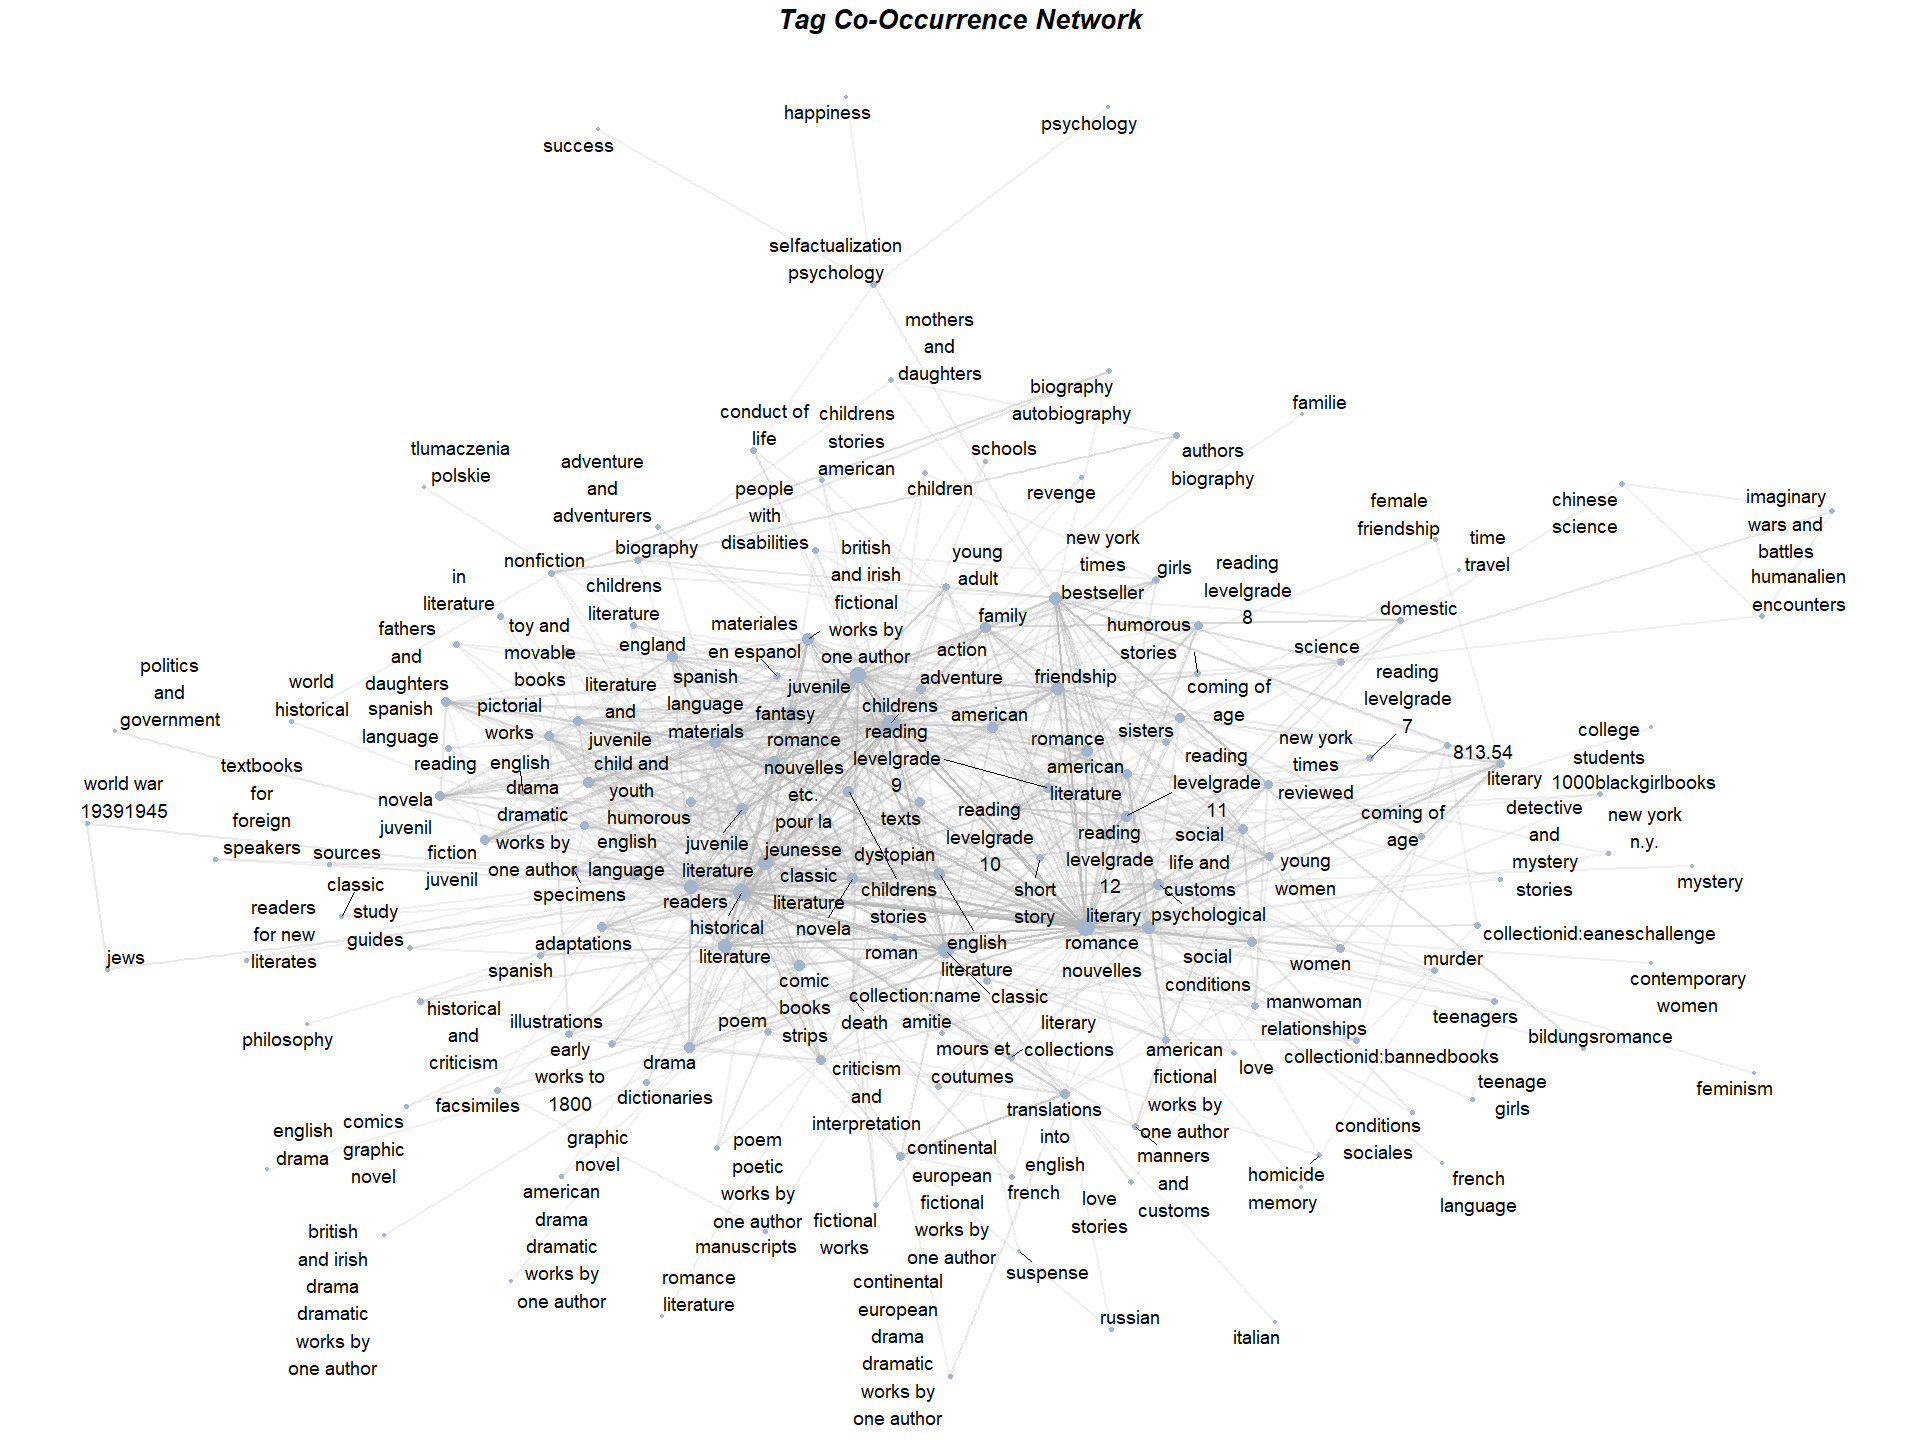
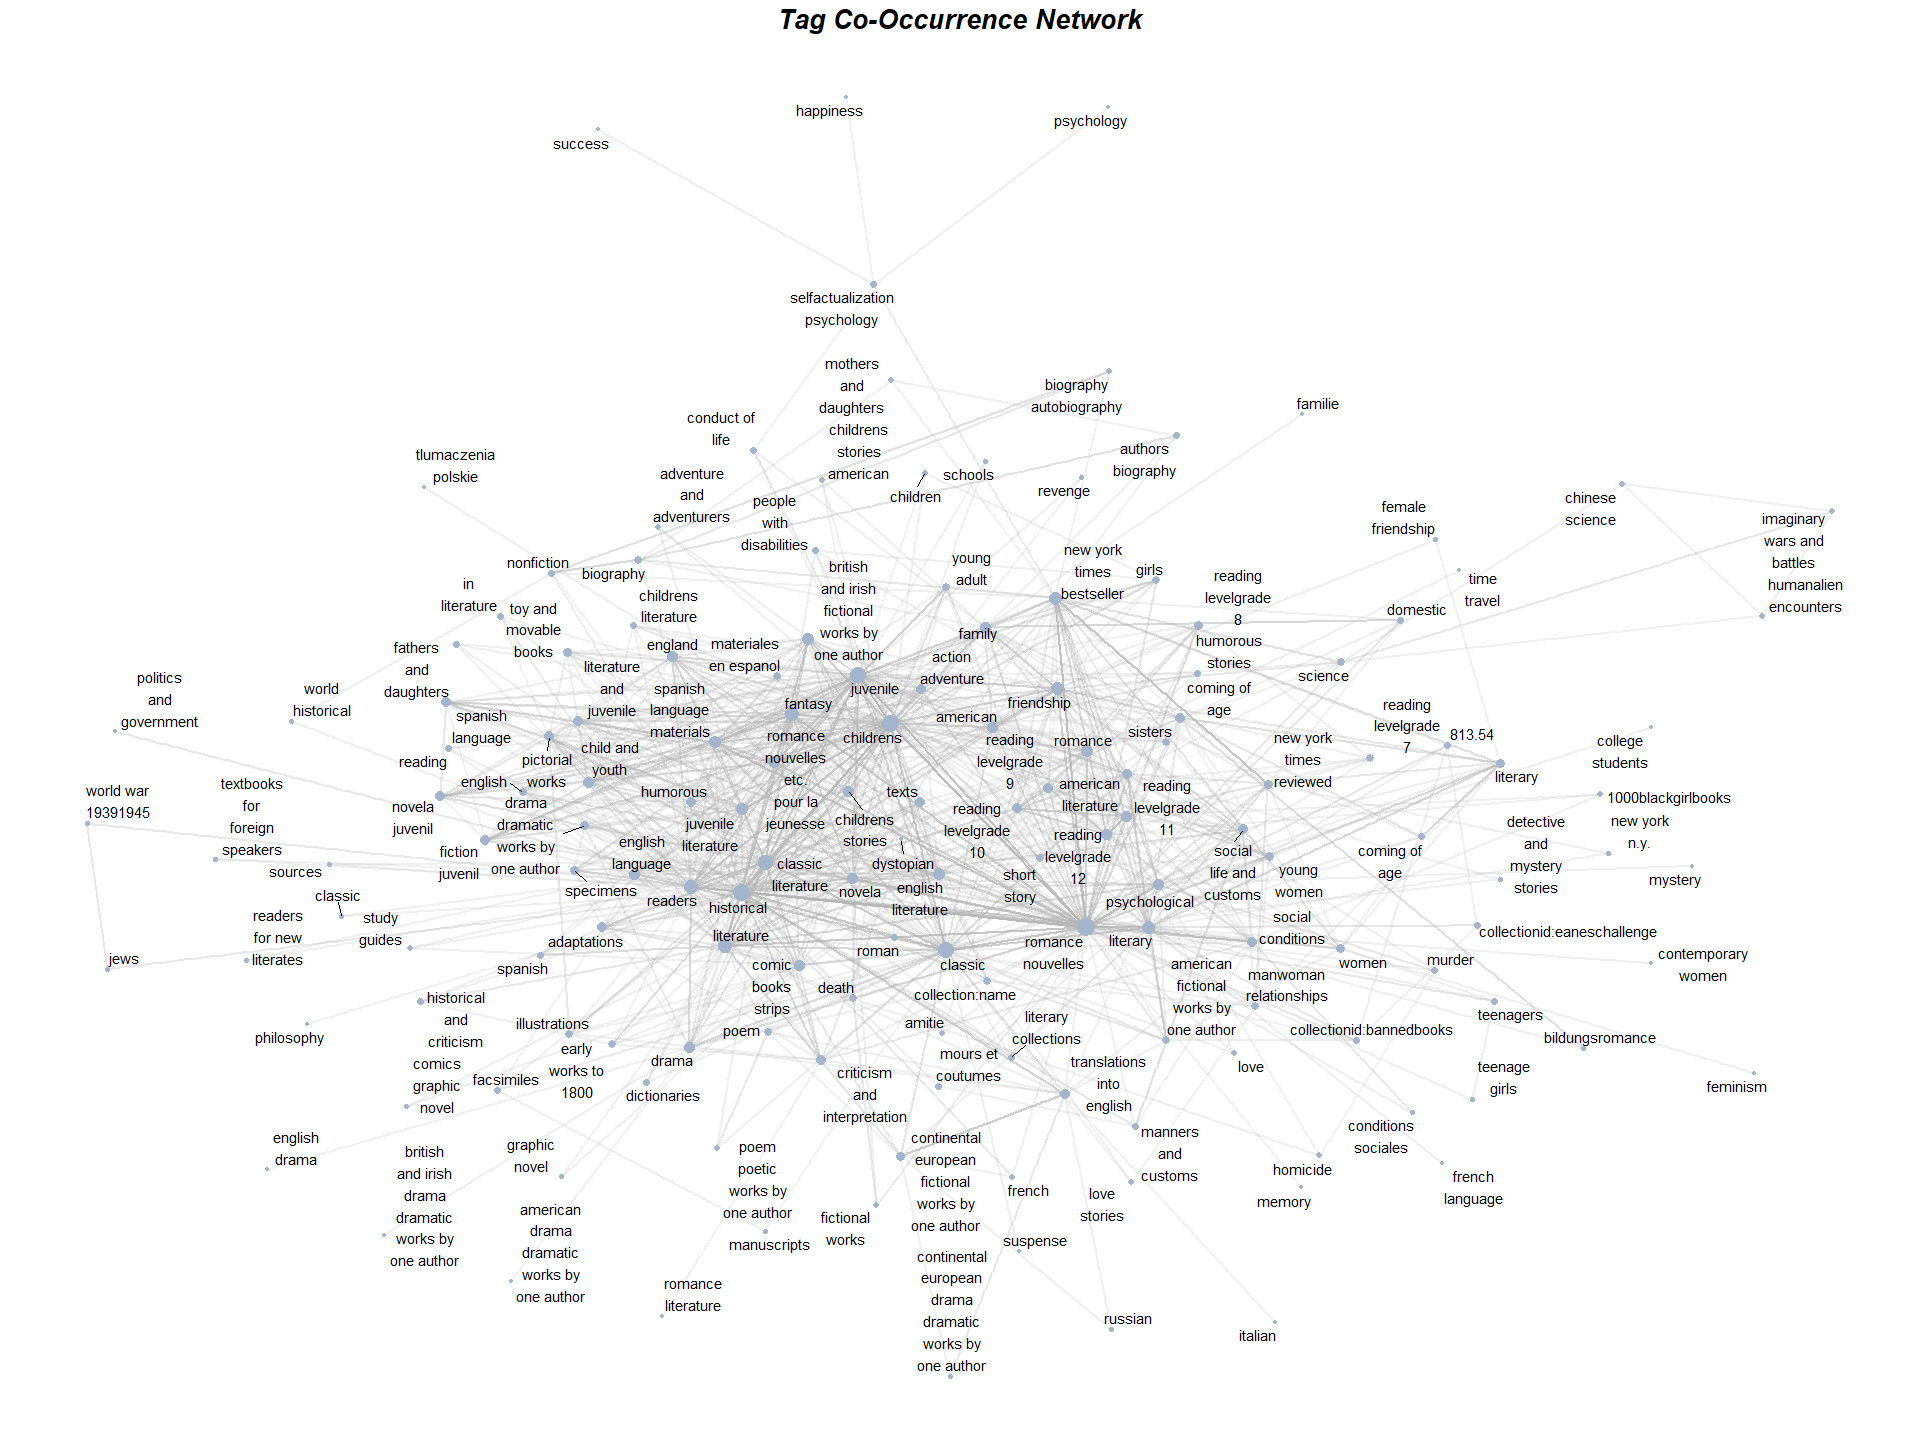
Figures

diff --git a/README.md b/README.md
@@ -2,9 +2,10 @@ Analysis of my Goodreads data
 ================
 
 Some exploratory analyses and data visualization of my Goodreads data,
-with additional information scraped from Wikidata and Open Library. A
-prediction model is built to predict my ratings of books based on their
-characteristics.
+with additional information scraped from Wikidata and Open Library. I
+build a co-occurrence network of the tags associated with books in Open
+Library, and a prediction model to predict my ratings of books based on
+their characteristics.
 
 ## Data preprocessing
 
@@ -280,7 +281,7 @@ ggplot(bookstrain %>% filter(!is.na(Date.Read)),
   annotate("rect", xmin = as.Date("2022-01-01"), xmax = as.Date("2022-09-22"), ymin = -Inf, ymax = Inf, fill = "lightsteelblue4", alpha = 0.15)
 ```
 
-<img src="myGoodReads_Analysis_files/figure-gfm/unnamed-chunk-14-1.png" style="display: block; margin: auto;" />
+<img src="README_files/figure-gfm/unnamed-chunk-14-1.png" style="display: block; margin: auto;" />
 
 I read more books in Autumn and Winter.
 
@@ -292,7 +293,7 @@ ggplot(bookstrain %>% filter(!is.na(Season.Read)), aes(x = Season.Read, fill = S
   theme(legend.title = element_blank())
 ```
 
-<img src="myGoodReads_Analysis_files/figure-gfm/unnamed-chunk-15-1.png" style="display: block; margin: auto;" />
+<img src="README_files/figure-gfm/unnamed-chunk-15-1.png" style="display: block; margin: auto;" />
 
 ### Book characteristics
 
@@ -321,7 +322,7 @@ ggplot(bookstrain %>%
   labs(title = "Books read by number of pages", x = "Pages", y = "Number of books")
 ```
 
-<img src="myGoodReads_Analysis_files/figure-gfm/unnamed-chunk-17-1.png" style="display: block; margin: auto;" />
+<img src="README_files/figure-gfm/unnamed-chunk-17-1.png" style="display: block; margin: auto;" />
 
 ``` r
 ggplot(bookstrain %>% filter(!is.na(Number.of.Pages) & Number.of.Pages < 2000),
@@ -332,7 +333,7 @@ ggplot(bookstrain %>% filter(!is.na(Number.of.Pages) & Number.of.Pages < 2000),
   labs(title = "Ratings by number of pages", x = "Number of pages", y = "Rating")
 ```
 
-<img src="myGoodReads_Analysis_files/figure-gfm/unnamed-chunk-18-1.png" style="display: block; margin: auto;" />
+<img src="README_files/figure-gfm/unnamed-chunk-18-1.png" style="display: block; margin: auto;" />
 
 I read many books published in the last 20 years, but also a good number
 of classics from the 19th and early 20th century. There is no clear
@@ -348,7 +349,7 @@ ggplot(bookstrain %>% filter(!is.na(Original.Publication.Year) & Original.Public
   labs(title = "Books read by publication year", x = "Year", y = "Number of books")
 ```
 
-<img src="myGoodReads_Analysis_files/figure-gfm/unnamed-chunk-20-1.png" style="display: block; margin: auto;" />
+<img src="README_files/figure-gfm/unnamed-chunk-20-1.png" style="display: block; margin: auto;" />
 
 ``` r
 ggplot(bookstrain %>% filter(!is.na(Original.Publication.Year) & Original.Publication.Year > 1830), aes(x = Original.Publication.Year, y = My.Rating)) +
@@ -358,7 +359,7 @@ ggplot(bookstrain %>% filter(!is.na(Original.Publication.Year) & Original.Public
   labs(title = "Ratings by publication year", x = "Year", y = "Rating")
 ```
 
-<img src="myGoodReads_Analysis_files/figure-gfm/unnamed-chunk-20-2.png" style="display: block; margin: auto;" />
+<img src="README_files/figure-gfm/unnamed-chunk-20-2.png" style="display: block; margin: auto;" />
 
 ### Author characteristics
 
@@ -379,7 +380,7 @@ ggplot(world_counts) +
   theme(legend.title = element_blank())
 ```
 
-<img src="myGoodReads_Analysis_files/figure-gfm/unnamed-chunk-21-1.png" style="display: block; margin: auto;" />
+<img src="README_files/figure-gfm/unnamed-chunk-21-1.png" style="display: block; margin: auto;" />
 
 In the time period considered, I read 134 books with known author
 gender, of which 73 (54.5%) were written by male authors and 61 (45.5%)
@@ -410,7 +411,7 @@ ggplot(gender_props, aes(fill=gender, y=prop, x=group)) +
   scale_fill_manual(values = c("#A1A5EC", "#ED90A4"))
 ```
 
-<img src="myGoodReads_Analysis_files/figure-gfm/unnamed-chunk-23-1.png" style="display: block; margin: auto;" />
+<img src="README_files/figure-gfm/unnamed-chunk-23-1.png" style="display: block; margin: auto;" />
 
 ``` r
 ratings_gender <- bookstrain %>% filter(!is.na(AuthorGender) & !is.na(My.Rating)) %>%
@@ -440,7 +441,7 @@ ggplot(ratings_gender, aes(x = count2, y = My.Rating, fill = AuthorGender)) +
   theme(legend.title = element_blank())
 ```
 
-<img src="myGoodReads_Analysis_files/figure-gfm/unnamed-chunk-23-2.png" style="display: block; margin: auto;" />
+<img src="README_files/figure-gfm/unnamed-chunk-23-2.png" style="display: block; margin: auto;" />
 
 There is a moderate positive correlation between my ratings and the
 average ratings by other readers (correlation coefficient = 0.291), but
@@ -459,7 +460,7 @@ ggplot(bookstrain %>% filter(!is.na(My.Rating) & !is.na(Average.Rating)),
   labs(title = "My ratings vs. average ratings", x = "Average rating", y = "My rating")
 ```
 
-<img src="myGoodReads_Analysis_files/figure-gfm/unnamed-chunk-24-1.png" style="display: block; margin: auto;" />
+<img src="README_files/figure-gfm/unnamed-chunk-24-1.png" style="display: block; margin: auto;" />
 
 ### Book tags/subjects
 
@@ -566,7 +567,7 @@ ggplot(tags_train, aes(x = reorder(SubjectList, Count), y = Count)) +
         plot.title = element_text(hjust = 0, size = 20, face = "bold.italic"))
 ```
 
-<img src="myGoodReads_Analysis_files/figure-gfm/unnamed-chunk-26-1.png" style="display: block; margin: auto;" />
+<img src="README_files/figure-gfm/unnamed-chunk-26-1.png" style="display: block; margin: auto;" />
 
 We can also look at how tags co-occur in books, to see which topics are
 often read together, with a co-occurrence network:
@@ -588,14 +589,14 @@ ggraph(tags_graph, layout = "kk") +
   geom_edge_link(aes(alpha = rescale(weight)), width = 1, color = "gray70", show.legend = TRUE) +
   scale_edge_width(range = c(0.2, 2)) +
   geom_node_point(aes(size = rescale(degree)), color = "lightsteelblue3", show.legend = FALSE) +
-  geom_node_text(aes(label = str_wrap(name, width = 10)), size = 5, max.overlaps = 10, repel = TRUE, family = "sans") +
+  geom_node_text(aes(label = str_wrap(name, width = 10)), size = 4, max.overlaps = 10, repel = TRUE, family = "sans") +
   theme_void() + 
   labs(title = "Tag Co-Occurrence Network") +
   theme(legend.position = "none",
         plot.title = element_text(hjust = 0.5, size = 20, face = "bold.italic"))
 ```
 
-<img src="myGoodReads_Analysis_files/figure-gfm/unnamed-chunk-27-1.png" style="display: block; margin: auto;" />
+<img src="README_files/figure-gfm/unnamed-chunk-27-1.png" style="display: block; margin: auto;" />
 
 ## Prediction
 
@@ -724,7 +725,7 @@ best_lambda <- model_en$lambda.min
 plot(model_en)
 ```
 
-<img src="myGoodReads_Analysis_files/figure-gfm/unnamed-chunk-29-1.png" style="display: block; margin: auto;" />
+<img src="README_files/figure-gfm/unnamed-chunk-29-1.png" style="display: block; margin: auto;" />
 
 ``` r
 en_coef <- coef(model_en, s = best_lambda)
@@ -756,7 +757,7 @@ model_rf <- randomForest(My.Rating ~ ., data = xy_train,
 varImpPlot(model_rf, main = "Variable Importance (Random Forest)")
 ```
 
-<img src="myGoodReads_Analysis_files/figure-gfm/unnamed-chunk-29-2.png" style="display: block; margin: auto;" />
+<img src="README_files/figure-gfm/unnamed-chunk-29-2.png" style="display: block; margin: auto;" />
 
 ``` r
 # Evaluate on validation set
